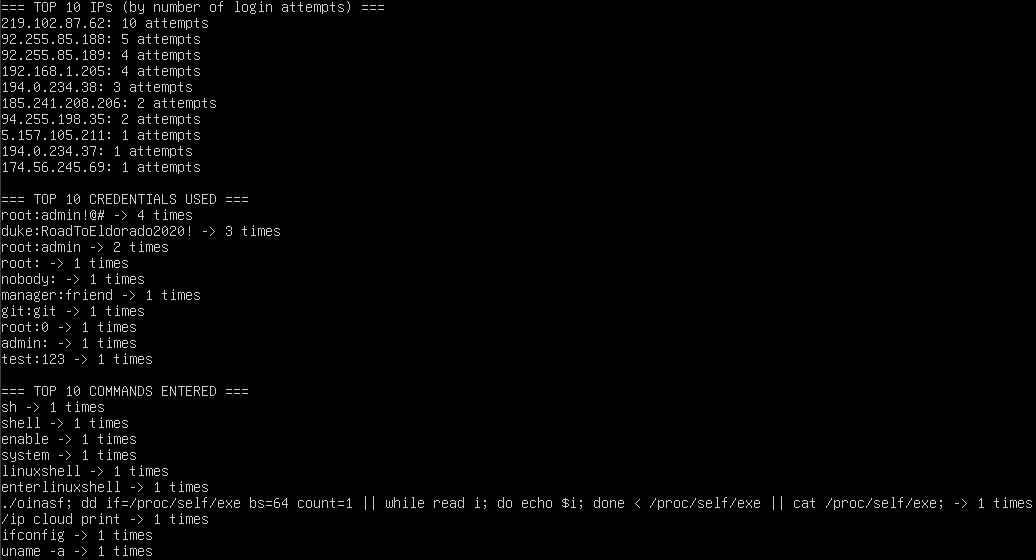
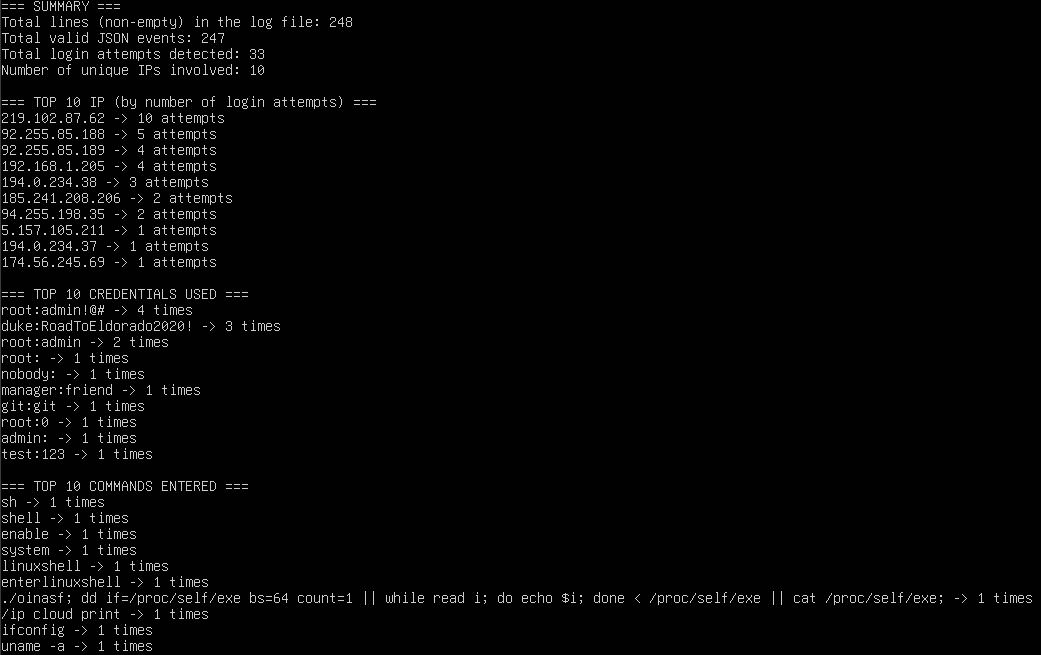
Update analyze_cowrie.py with counters for lines, events, etc.

diff --git a/analyze_cowrie.py b/analyze_cowrie.py
@@ -1,84 +1,84 @@
 import json
 import os
 
-# Path to the Cowrie JSON logfile. Adjust as needed.
+# Adjust this path to point to your actual cowrie.json location
 LOG_PATH = "../log/cowrie.json"
 
 def main():
-    """
-    This script processes Cowrie's JSON log (cowrie.json) line by line
-    and extracts some statistics about:
-      - IP addresses (which IP attempted to log in)
-      - Credentials (username:password pairs)
-      - Commands typed by attackers
+    # Dictionaries for stats
+    ip_count = {}
+    credentials_count = {}
+    commands_count = {}
 
-    It then prints top-10 rankings for each category.
-    """
+    # Additional counters
+    total_lines = 0       # how many non-empty lines in cowrie.json
+    total_events = 0      # how many lines were valid JSON events
+    login_attempts = 0    # how many times we saw login.failed/login.success
 
-    # Dictionaries to keep counters for different data points
-    ip_count = {}           # Tracks how many times each IP address appears
-    credentials_count = {}  # Tracks how many times each (username:password) combo appears
-    commands_count = {}     # Tracks how many times each command is used
-
-    # Check if the logfile actually exists
     if not os.path.isfile(LOG_PATH):
-        print(f"Log file not found: {LOG_PATH}")
+        print(f"No log file found at {LOG_PATH}")
         return
 
-    # Open the JSON log, read line by line
-    with open(LOG_PATH, "r") as f:
+    with open(LOG_PATH, 'r') as f:
         for line in f:
             line = line.strip()
             if not line:
                 continue
-            # Each line should be a valid JSON object
+            total_lines += 1
+
+            # Attempt to parse JSON
             try:
                 data = json.loads(line)
+                total_events += 1
             except json.JSONDecodeError:
-                # If it fails to parse, skip this line
                 continue
 
-            # We examine the 'eventid' field to determine the event type
             eventid = data.get("eventid", "")
             src_ip = data.get("src_ip", "")
 
-            # Process login events (failed or successful)
+            # Track login attempts
             if eventid in ["cowrie.login.failed", "cowrie.login.success"]:
+                login_attempts += 1
+
                 username = data.get("username", "")
                 password = data.get("password", "")
 
-                # Increment IP counter
+                # Update IP dictionary
                 ip_count[src_ip] = ip_count.get(src_ip, 0) + 1
 
-                # Increment credentials counter
-                creds = f"{username}:{password}"
-                credentials_count[creds] = credentials_count.get(creds, 0) + 1
+                # Update credentials dictionary
+                creds_key = f"{username}:{password}"
+                credentials_count[creds_key] = credentials_count.get(creds_key, 0) + 1
 
-            # Process command input events
+            # Track commands
             if eventid == "cowrie.command.input":
                 cmd = data.get("input", "")
                 commands_count[cmd] = commands_count.get(cmd, 0) + 1
 
-    # Now we display the top 10 for each category
+    # Print a summary
+    print("=== SUMMARY ===")
+    print(f"Total lines (non-empty) in the log file: {total_lines}")
+    print(f"Total valid JSON events: {total_events}")
+    print(f"Total login attempts detected: {login_attempts}")
+    print(f"Number of unique IPs involved: {len(ip_count)}")
 
-    # Top 10 IPs by login attempts
-    print("=== TOP 10 IP ADDRESSES (by number of login attempts) ===")
-    sorted_ips = sorted(ip_count.items(), key=lambda x: x[1], reverse=True)[:10]
-    for ip, count in sorted_ips:
-        print(f"{ip}: {count} attempts")
+    # Print top 10 IP
+    print("\n=== TOP 10 IP (by number of login attempts) ===")
+    sorted_ip = sorted(ip_count.items(), key=lambda x: x[1], reverse=True)[:10]
+    for ip, count in sorted_ip:
+        print(f"{ip} -> {count} attempts")
 
-    # Top 10 credentials
-    print("\n=== TOP 10 CREDENTIALS (username:password) ===")
+    # Print top 10 credentials
+    print("\n=== TOP 10 CREDENTIALS USED ===")
     sorted_creds = sorted(credentials_count.items(), key=lambda x: x[1], reverse=True)[:10]
-    for creds, count in sorted_creds:
-        print(f"{creds} -> {count} times")
+    for creds, num in sorted_creds:
+        print(f"{creds} -> {num} times")
 
-    # Top 10 commands
+    # Print top 10 commands
     print("\n=== TOP 10 COMMANDS ENTERED ===")
     sorted_cmds = sorted(commands_count.items(), key=lambda x: x[1], reverse=True)[:10]
-    for cmd, count in sorted_cmds:
-        print(f"{cmd} -> {count} times")
-
+    for cmd, num in sorted_cmds:
+        print(f"{cmd} -> {num} times")
 
 if __name__ == "__main__":
     main()
